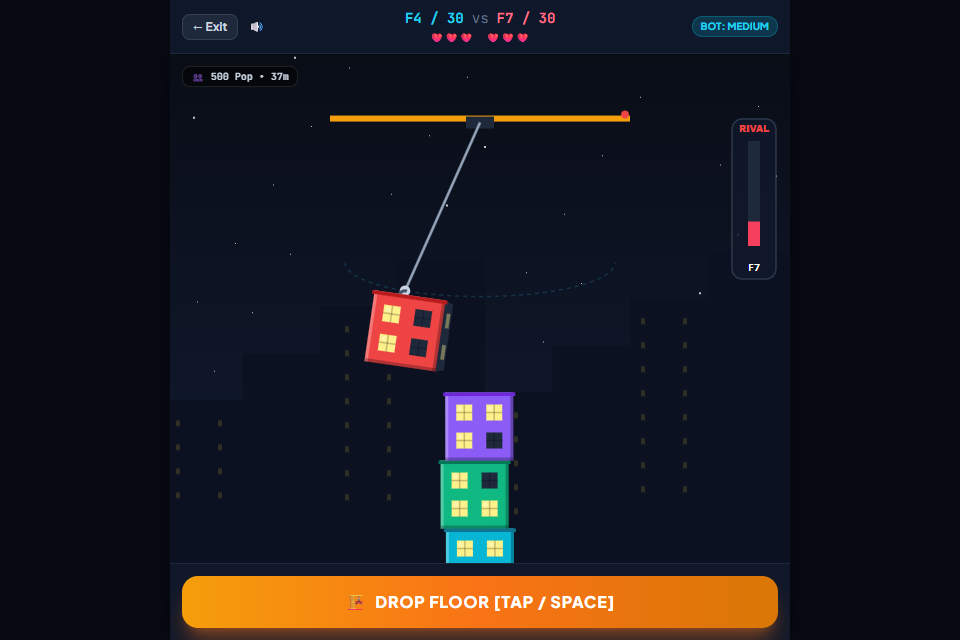
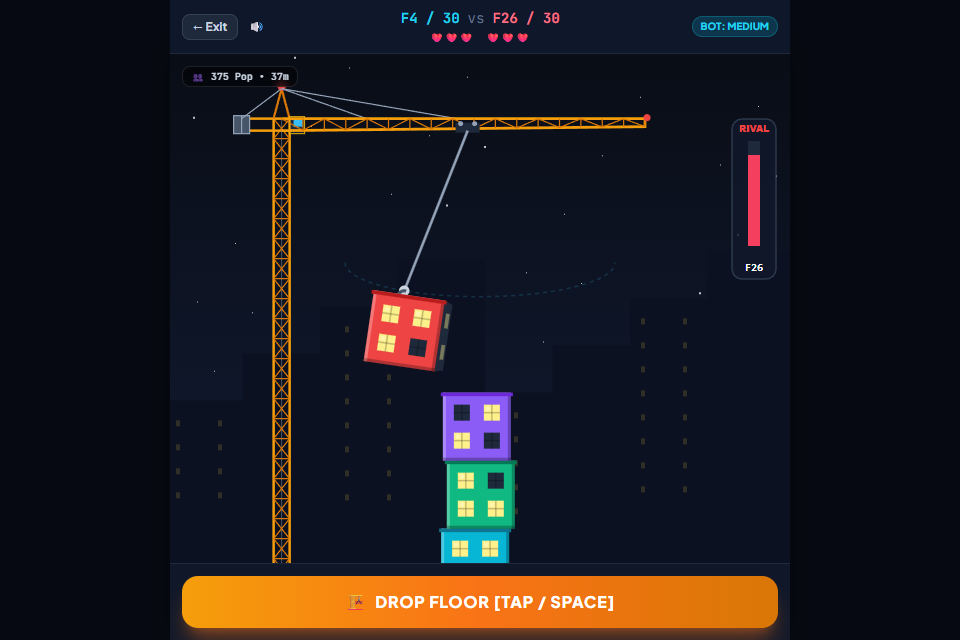
feat(skyline-stack): add cosmetic 'r'-shaped tower crane with left mast and horizontal lattice boom

diff --git a/src/games/skyline-stack/renderers/SkylineRenderer.ts b/src/games/skyline-stack/renderers/SkylineRenderer.ts
@@ -133,7 +133,7 @@ export class SkylineRenderer {
     }
 
     // 7. Render Swinging Construction Crane
-    this.renderCrane(ctx, playerState.crane, centerX, groundScreenY);
+    this.renderCrane(ctx, playerState.crane, centerX, groundScreenY, logicalW, logicalH);
 
     // 8. Render Particles & Floating Texts
     this.updateAndRenderParticles(ctx, dt, centerX, groundScreenY);
@@ -503,12 +503,18 @@ export class SkylineRenderer {
 
   /**
    * Renders the swinging construction crane & suspended block
+   * Features a full cosmetic 'r'-shaped tower crane:
+   * - Vertical steel lattice mast on the left side of the screen
+   * - Horizontal lattice jib arm extending across the sky above the skyscraper
+   * - Counter-jib, counterweights, A-frame apex, operator cabin, and tension guy-wires
    */
   private renderCrane(
     ctx: CanvasRenderingContext2D,
     crane: CraneState,
     cx: number,
-    gy: number
+    gy: number,
+    logicalW: number,
+    logicalH: number
   ) {
     const anchorScreenX = cx + crane.anchorX;
     const anchorScreenY = gy - crane.anchorY;
@@ -517,9 +523,200 @@ export class SkylineRenderer {
     const hookScreenY = gy - crane.hookY;
     const isDark = this.currentTheme === 'dark';
 
+    // Position of the left vertical mast (the vertical stem of the 'r')
+    // Placed on the left side of the screen, safely clear of the center tower
+    const mastX = Math.max(32, Math.min(cx - 160, logicalW * 0.18));
+    const jibTopY = anchorScreenY - 14;
+    const jibEndX = Math.min(logicalW - 14, cx + 165);
+    const mastBottomY = Math.min(logicalH + 120, gy);
+
     ctx.save();
 
-    // 1. Equator Trajectory Guideline Arc (180° front hemisphere path)
+    // 1. Vertical Crane Mast (The vertical stem of the 'r' rising on the left)
+    const mastW = 16;
+    const mastHalfW = mastW * 0.5;
+
+    // Left and right vertical steel chords
+    ctx.strokeStyle = '#f59e0b'; // Industrial safety yellow
+    ctx.lineWidth = 2.5;
+    ctx.beginPath();
+    ctx.moveTo(mastX - mastHalfW, jibTopY);
+    ctx.lineTo(mastX - mastHalfW, mastBottomY);
+    ctx.moveTo(mastX + mastHalfW, jibTopY);
+    ctx.lineTo(mastX + mastHalfW, mastBottomY);
+    ctx.stroke();
+
+    // Internal vertical service ladder line
+    ctx.strokeStyle = isDark ? '#475569' : '#94a3b8';
+    ctx.lineWidth = 1;
+    ctx.beginPath();
+    ctx.moveTo(mastX, jibTopY);
+    ctx.lineTo(mastX, mastBottomY);
+    ctx.stroke();
+
+    // Lattice truss diagonals and horizontal cross-struts
+    ctx.strokeStyle = isDark ? '#d97706' : '#eab308';
+    ctx.lineWidth = 1.3;
+    ctx.beginPath();
+    const sectionHeight = 20;
+    const totalSections = Math.ceil((mastBottomY - jibTopY) / sectionHeight);
+    for (let s = 0; s < totalSections; s++) {
+      const y1 = jibTopY + s * sectionHeight;
+      const y2 = Math.min(mastBottomY, y1 + sectionHeight);
+
+      // Horizontal strut
+      ctx.moveTo(mastX - mastHalfW, y1);
+      ctx.lineTo(mastX + mastHalfW, y1);
+
+      // Diagonal X bracing
+      ctx.moveTo(mastX - mastHalfW, y1);
+      ctx.lineTo(mastX + mastHalfW, y2);
+      ctx.moveTo(mastX + mastHalfW, y1);
+      ctx.lineTo(mastX - mastHalfW, y2);
+    }
+    ctx.stroke();
+
+    // Concrete Footing / Foundation for Mast at the Ground level
+    if (gy < logicalH + 100) {
+      ctx.fillStyle = isDark ? '#334155' : '#64748b';
+      ctx.fillRect(mastX - 16, gy - 8, 32, 10);
+      // Yellow hazard caution marks
+      ctx.fillStyle = '#eab308';
+      ctx.fillRect(mastX - 14, gy - 7, 28, 3);
+    }
+
+    // 2. Counter-Jib & Heavy Counterweights (the back left tail of the 'r')
+    const counterJibLeft = mastX - 44;
+    ctx.strokeStyle = '#f59e0b';
+    ctx.lineWidth = 2.5;
+    ctx.beginPath();
+    ctx.moveTo(mastX, jibTopY);
+    ctx.lineTo(counterJibLeft, jibTopY);
+    ctx.moveTo(mastX, jibTopY + 12);
+    ctx.lineTo(counterJibLeft, jibTopY + 12);
+    ctx.lineTo(counterJibLeft, jibTopY);
+    ctx.stroke();
+
+    // Concrete counterweight blocks
+    ctx.fillStyle = isDark ? '#475569' : '#334155';
+    ctx.fillRect(counterJibLeft - 4, jibTopY - 3, 16, 18);
+    // Steel tie straps on counterweights
+    ctx.strokeStyle = '#94a3b8';
+    ctx.lineWidth = 1.2;
+    ctx.strokeRect(counterJibLeft - 4, jibTopY - 3, 16, 18);
+    ctx.beginPath();
+    ctx.moveTo(counterJibLeft + 4, jibTopY - 3);
+    ctx.lineTo(counterJibLeft + 4, jibTopY + 15);
+    ctx.stroke();
+
+    // 3. Apex Tower Peak & Tension Cables (A-frame peak above the mast)
+    const apexHeight = 30;
+    const apexX = mastX;
+    const apexY = jibTopY - apexHeight;
+
+    // A-frame steel struts
+    ctx.strokeStyle = '#d97706';
+    ctx.lineWidth = 2.2;
+    ctx.beginPath();
+    ctx.moveTo(mastX - mastHalfW, jibTopY);
+    ctx.lineTo(apexX, apexY);
+    ctx.lineTo(mastX + mastHalfW, jibTopY);
+    ctx.stroke();
+
+    // Blinking red aviation warning beacon on apex
+    const blink = Math.sin(this.animTime * 8.0) > 0;
+    ctx.fillStyle = blink ? '#ef4444' : '#7f1d1d';
+    ctx.beginPath();
+    ctx.arc(apexX, apexY - 2, 4, 0, Math.PI * 2);
+    ctx.fill();
+
+    // High-tensile steel tension guy-wires
+    ctx.strokeStyle = '#94a3b8';
+    ctx.lineWidth = 1.2;
+    ctx.beginPath();
+    // Cable to counter-jib
+    ctx.moveTo(apexX, apexY);
+    ctx.lineTo(counterJibLeft + 4, jibTopY);
+    // Cables to main horizontal jib arm
+    ctx.moveTo(apexX, apexY);
+    ctx.lineTo(mastX + 85, jibTopY);
+    ctx.moveTo(apexX, apexY);
+    ctx.lineTo(mastX + 175, jibTopY);
+    ctx.stroke();
+
+    // 4. Operator's Cabin (Cab at the slewing ring joint)
+    const cabX = mastX + mastHalfW + 1;
+    const cabY = jibTopY - 1;
+    const cabW = 13;
+    const cabH = 15;
+    ctx.fillStyle = isDark ? '#1e293b' : '#334155';
+    ctx.fillRect(cabX, cabY, cabW, cabH);
+    // Cyan tinted glass windshield
+    ctx.fillStyle = '#38bdf8';
+    ctx.fillRect(cabX + 3, cabY + 2, cabW - 4, 7);
+    // Safety railing
+    ctx.strokeStyle = '#eab308';
+    ctx.lineWidth = 1;
+    ctx.strokeRect(cabX - 1, cabY - 1, cabW + 2, cabH + 2);
+
+    // 5. Main Horizontal Jib Arm (Top horizontal branch of the 'r' extending to the right)
+    ctx.strokeStyle = '#f59e0b';
+    ctx.lineWidth = 2.8;
+    ctx.beginPath();
+    // Upper horizontal chord
+    ctx.moveTo(mastX, jibTopY);
+    ctx.lineTo(jibEndX, jibTopY);
+    // Lower horizontal chord (gently tapers toward tip)
+    ctx.moveTo(mastX, jibTopY + 12);
+    ctx.lineTo(jibEndX, jibTopY + 8);
+    // End vertical connector
+    ctx.lineTo(jibEndX, jibTopY);
+    ctx.stroke();
+
+    // Lattice diagonal cross-webbing along the horizontal jib
+    ctx.strokeStyle = isDark ? '#d97706' : '#eab308';
+    ctx.lineWidth = 1.2;
+    ctx.beginPath();
+    const jibLength = jibEndX - mastX;
+    const jibSegments = Math.ceil(jibLength / 22);
+    const segW = jibLength / jibSegments;
+    for (let j = 0; j < jibSegments; j++) {
+      const jx1 = mastX + j * segW;
+      const jx2 = jx1 + segW;
+      const jyLower1 = jibTopY + 12 - (j / jibSegments) * 4;
+      const jyLower2 = jibTopY + 12 - ((j + 1) / jibSegments) * 4;
+
+      if (j % 2 === 0) {
+        ctx.moveTo(jx1, jibTopY);
+        ctx.lineTo(jx2, jyLower2);
+      } else {
+        ctx.moveTo(jx1, jyLower1);
+        ctx.lineTo(jx2, jibTopY);
+      }
+      ctx.moveTo(jx2, jibTopY);
+      ctx.lineTo(jx2, jyLower2);
+    }
+    ctx.stroke();
+
+    // Blinking red aviation beacon on the far tip of the horizontal jib
+    ctx.fillStyle = blink ? '#ef4444' : '#7f1d1d';
+    ctx.beginPath();
+    ctx.arc(jibEndX + 2, jibTopY - 1, 3.5, 0, Math.PI * 2);
+    ctx.fill();
+
+    // 6. Pulley Trolley (moves smoothly along the horizontal jib above the center area)
+    const trolleyX = anchorScreenX + Math.sin(crane.equatorAngle ?? crane.angle) * 22;
+    const trolleyY = jibTopY + 8;
+    ctx.fillStyle = '#1e293b';
+    ctx.fillRect(trolleyX - 12, trolleyY - 4, 24, 10);
+    // Trolley wheels
+    ctx.fillStyle = '#94a3b8';
+    ctx.beginPath();
+    ctx.arc(trolleyX - 7, trolleyY - 3, 2.5, 0, Math.PI * 2);
+    ctx.arc(trolleyX + 7, trolleyY - 3, 2.5, 0, Math.PI * 2);
+    ctx.fill();
+
+    // 7. Equator Trajectory Guideline Arc (180° front hemisphere path)
     ctx.save();
     ctx.strokeStyle = isDark ? 'rgba(56, 189, 248, 0.18)' : 'rgba(2, 132, 199, 0.15)';
     ctx.lineWidth = 1.5;
@@ -536,35 +733,16 @@ export class SkylineRenderer {
     ctx.stroke();
     ctx.restore();
 
-    // 2. Crane Overhead Jib Arm (Lattice Mast)
-    ctx.strokeStyle = '#f59e0b'; // Industrial safety yellow
-    ctx.lineWidth = 6;
-    ctx.beginPath();
-    ctx.moveTo(anchorScreenX - 150, anchorScreenY - 14);
-    ctx.lineTo(anchorScreenX + 150, anchorScreenY - 14);
-    ctx.stroke();
-
-    // Crane Pulley Trolley
-    ctx.fillStyle = '#1e293b';
-    ctx.fillRect(anchorScreenX - 14, anchorScreenY - 16, 28, 12);
-
-    // Blinking red aviation light on crane tip
-    const blink = (Math.sin(this.animTime * 8.0) > 0);
-    ctx.fillStyle = blink ? '#ef4444' : '#7f1d1d';
-    ctx.beginPath();
-    ctx.arc(anchorScreenX + 145, anchorScreenY - 18, 4, 0, Math.PI * 2);
-    ctx.fill();
-
-    // 3. Steel Winch Cable (width scales subtly with depth)
+    // 8. Steel Winch Cable (width scales subtly with depth)
     const depthZ = crane.depthZ ?? Math.cos(crane.equatorAngle ?? crane.angle);
     ctx.strokeStyle = '#94a3b8';
     ctx.lineWidth = 1.6 + 1.2 * depthZ;
     ctx.beginPath();
-    ctx.moveTo(anchorScreenX, anchorScreenY - 10);
+    ctx.moveTo(trolleyX, trolleyY + 4);
     ctx.lineTo(hookScreenX, hookScreenY);
     ctx.stroke();
 
-    // 4. Heavy Construction Hook
+    // 9. Heavy Construction Hook
     const hookScale = 0.92 + 0.16 * depthZ;
     ctx.save();
     ctx.translate(hookScreenX, hookScreenY);
@@ -582,15 +760,13 @@ export class SkylineRenderer {
     ctx.stroke();
     ctx.restore();
 
-    // 5. Block currently held by the hook along the 180° equator arc
+    // 10. Block currently held by the hook along the 180° equator arc
     if (crane.holdingBlock) {
       const block = crane.holdingBlock;
       const bCenterScreenX = hookScreenX;
       const bCenterScreenY = hookScreenY + 6 + block.height * 0.5;
 
-      // Perspective scale: 0.92 at side horizons, 1.08 at front center
       const perspScale = 0.92 + 0.16 * depthZ;
-      // 3D yaw tilt following the globe equator's curvature
       const yawAngle = -Math.sin(crane.equatorAngle ?? crane.angle) * 0.26;
 
       ctx.save();
